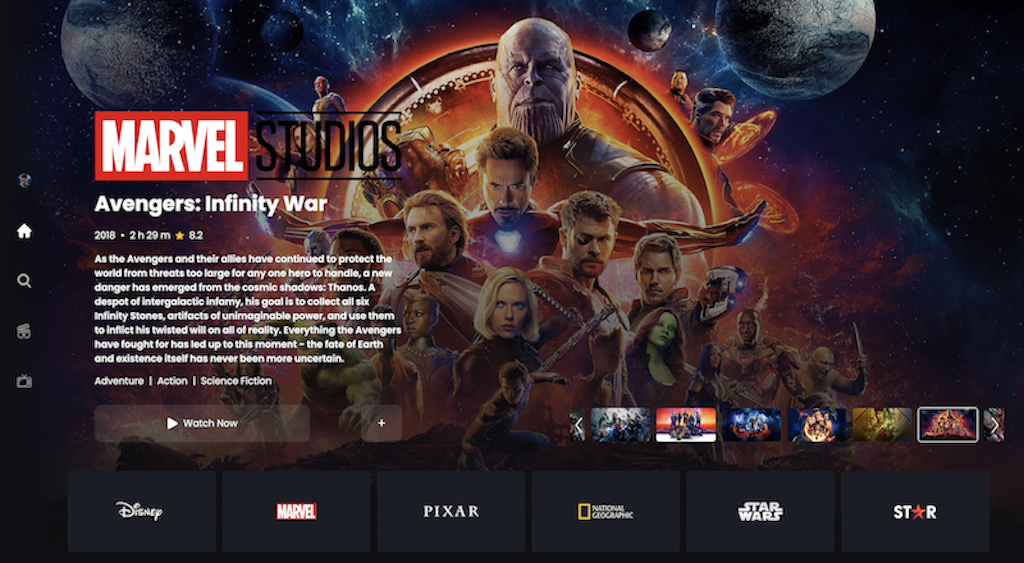
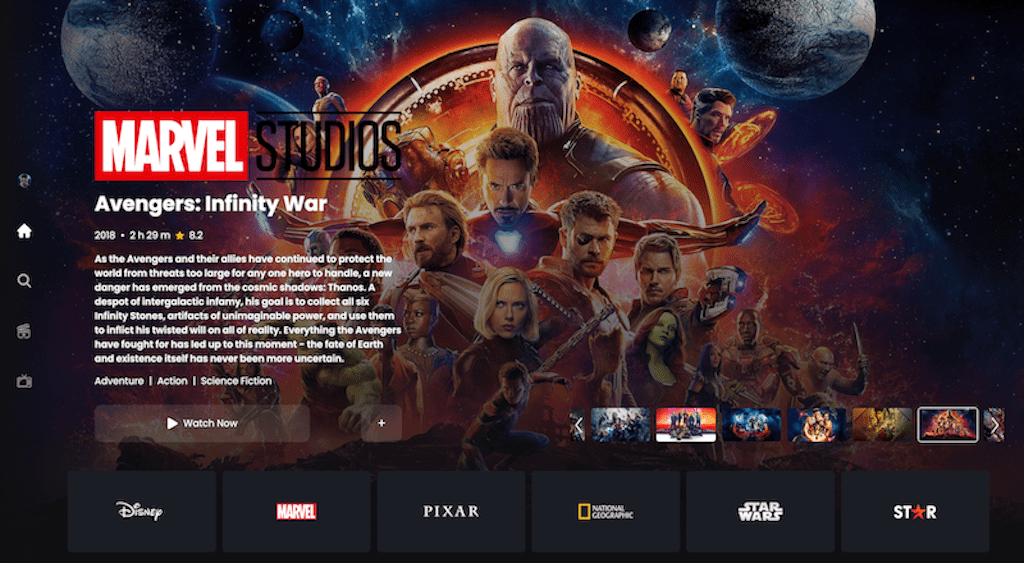
compressing images

Changed region(s): [[0.0938, 0.1812, 0.25, 0.3321], [0.625, 0.7247, 0.75, 0.7549]]

diff --git a/src/components/Navbar.jsx b/src/components/Navbar.jsx
@@ -115,7 +115,7 @@ function Navbar() {
 
       <motion.div initial='hidden' whileInView='show' variants={container} viewport={{once:true}} className='flex gap-6' >
             <a href="https://github.com/wassim-mouloud" target='_blank'><motion.img onMouseEnter={()=>handleGithubenter()} onMouseLeave={()=>handleGithubleave()} variants={slideRight} viewport={{once:true}} src={githubHovered?'/images/github.png':'/images/white-github.png'} alt="" className='w-8 h-8 cursor-pointer lg:h-10 lg:w-10'  /></a>
-            <a href="https://www.linkedin.com/feed/" target='_blank' ><motion.img onMouseEnter={()=>handleLinkedinenter()} onMouseLeave={()=>handleLinkedinleave()} variants={slideRight} viewport={{once:true}} src={linkedinHovered?'/images/linkedin.png':'/images/white-linkedin.png'} alt="" className='w-8 h-8 cursor-pointer lg:h-10 lg:w-10' /></a>
+            <a href="https://www.linkedin.com/in/wassim-mouloud-5b458a286/" target='_blank' ><motion.img onMouseEnter={()=>handleLinkedinenter()} onMouseLeave={()=>handleLinkedinleave()} variants={slideRight} viewport={{once:true}} src={linkedinHovered?'/images/linkedin.png':'/images/white-linkedin.png'} alt="" className='w-8 h-8 cursor-pointer lg:h-10 lg:w-10' /></a>
             <a href="https://twitter.com/WassimMouloud" target='_blank'><motion.img onMouseEnter={()=>handleTwitterenter()} onMouseLeave={()=>handleTwitterleave()} variants={slideRight} viewport={{once:true}} src={twitterHovered?"/images/twitter.png":"/images/white-twitter.png"} alt="" className='w-8 h-8 cursor-pointer lg:h-10 lg:w-10' /></a>
       </motion.div>
     </div> 
